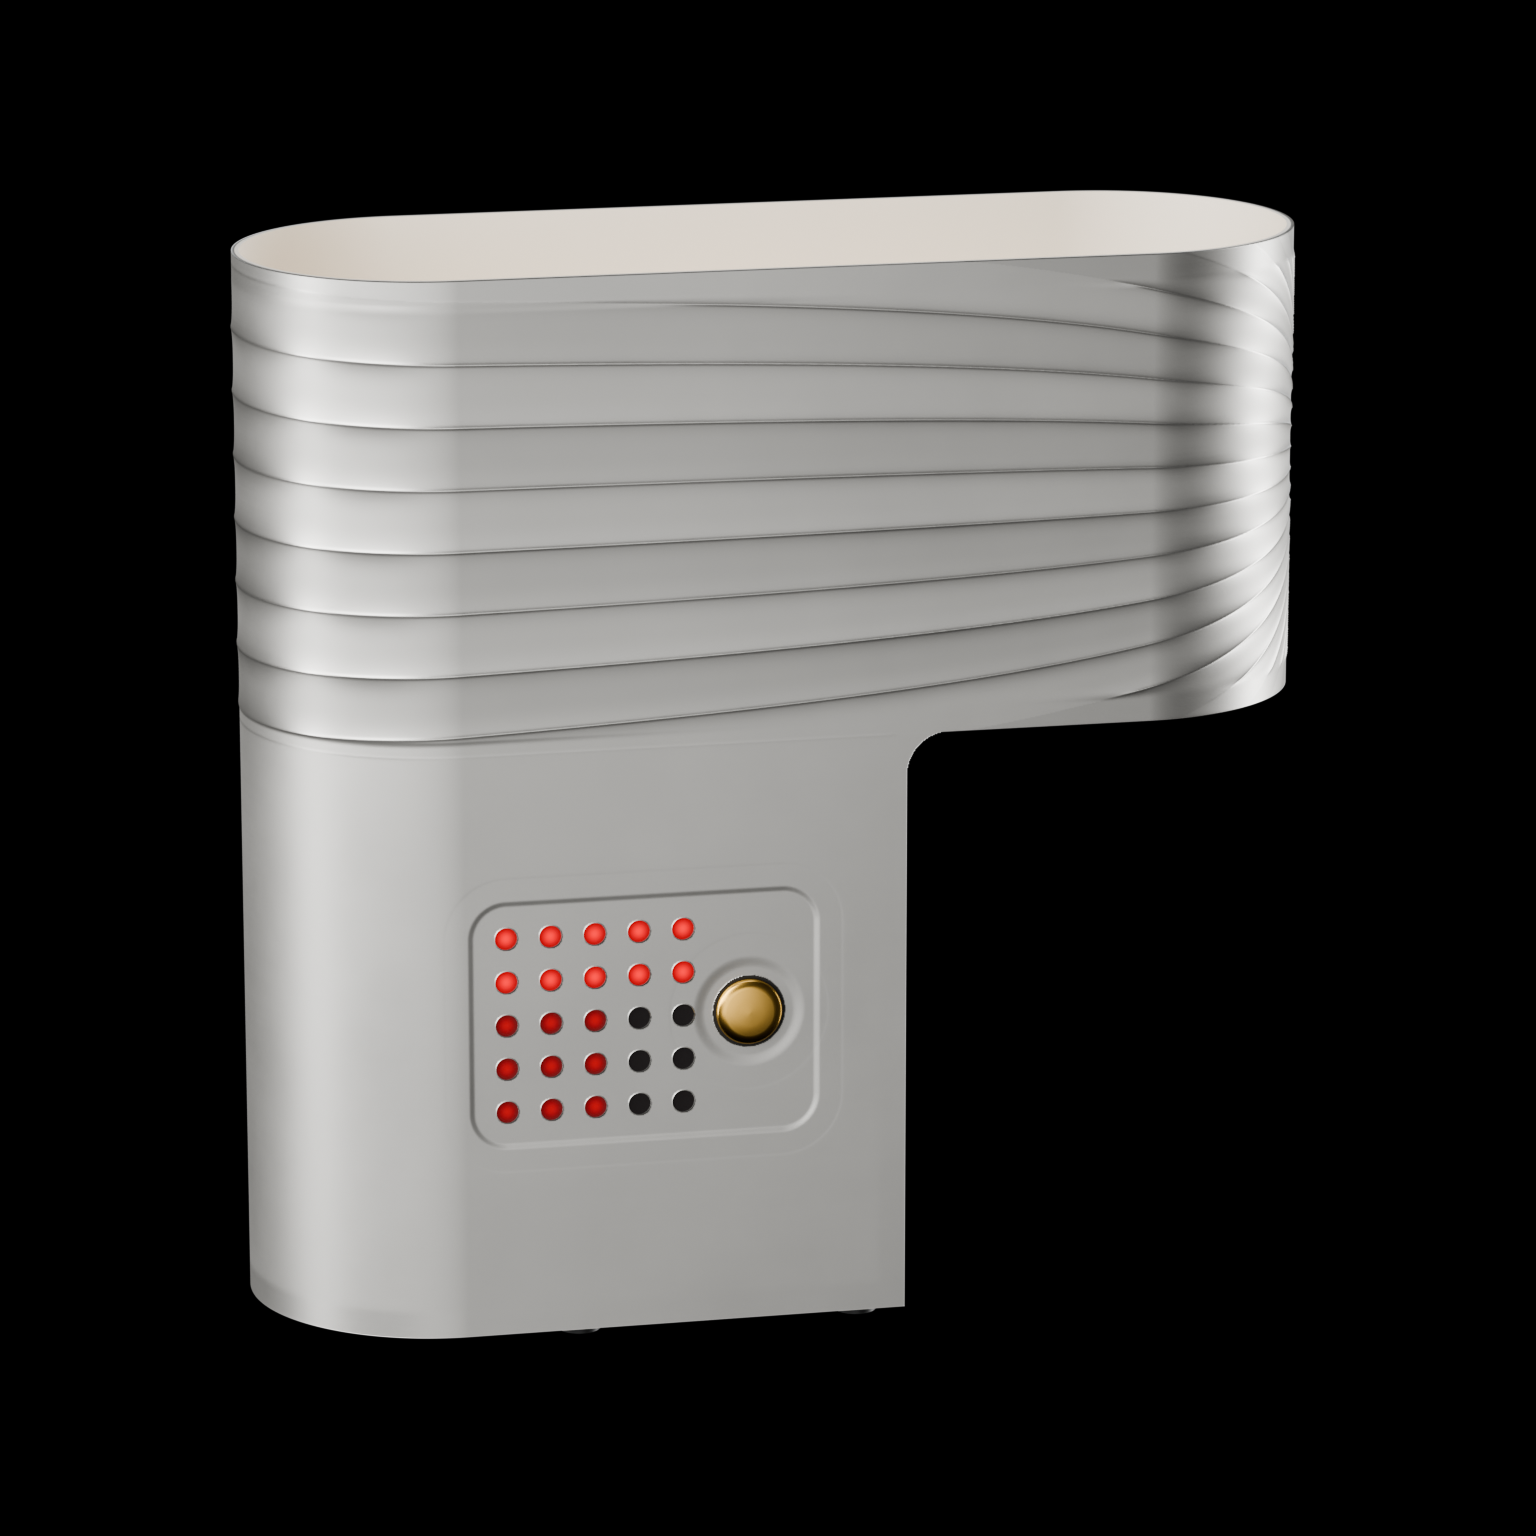
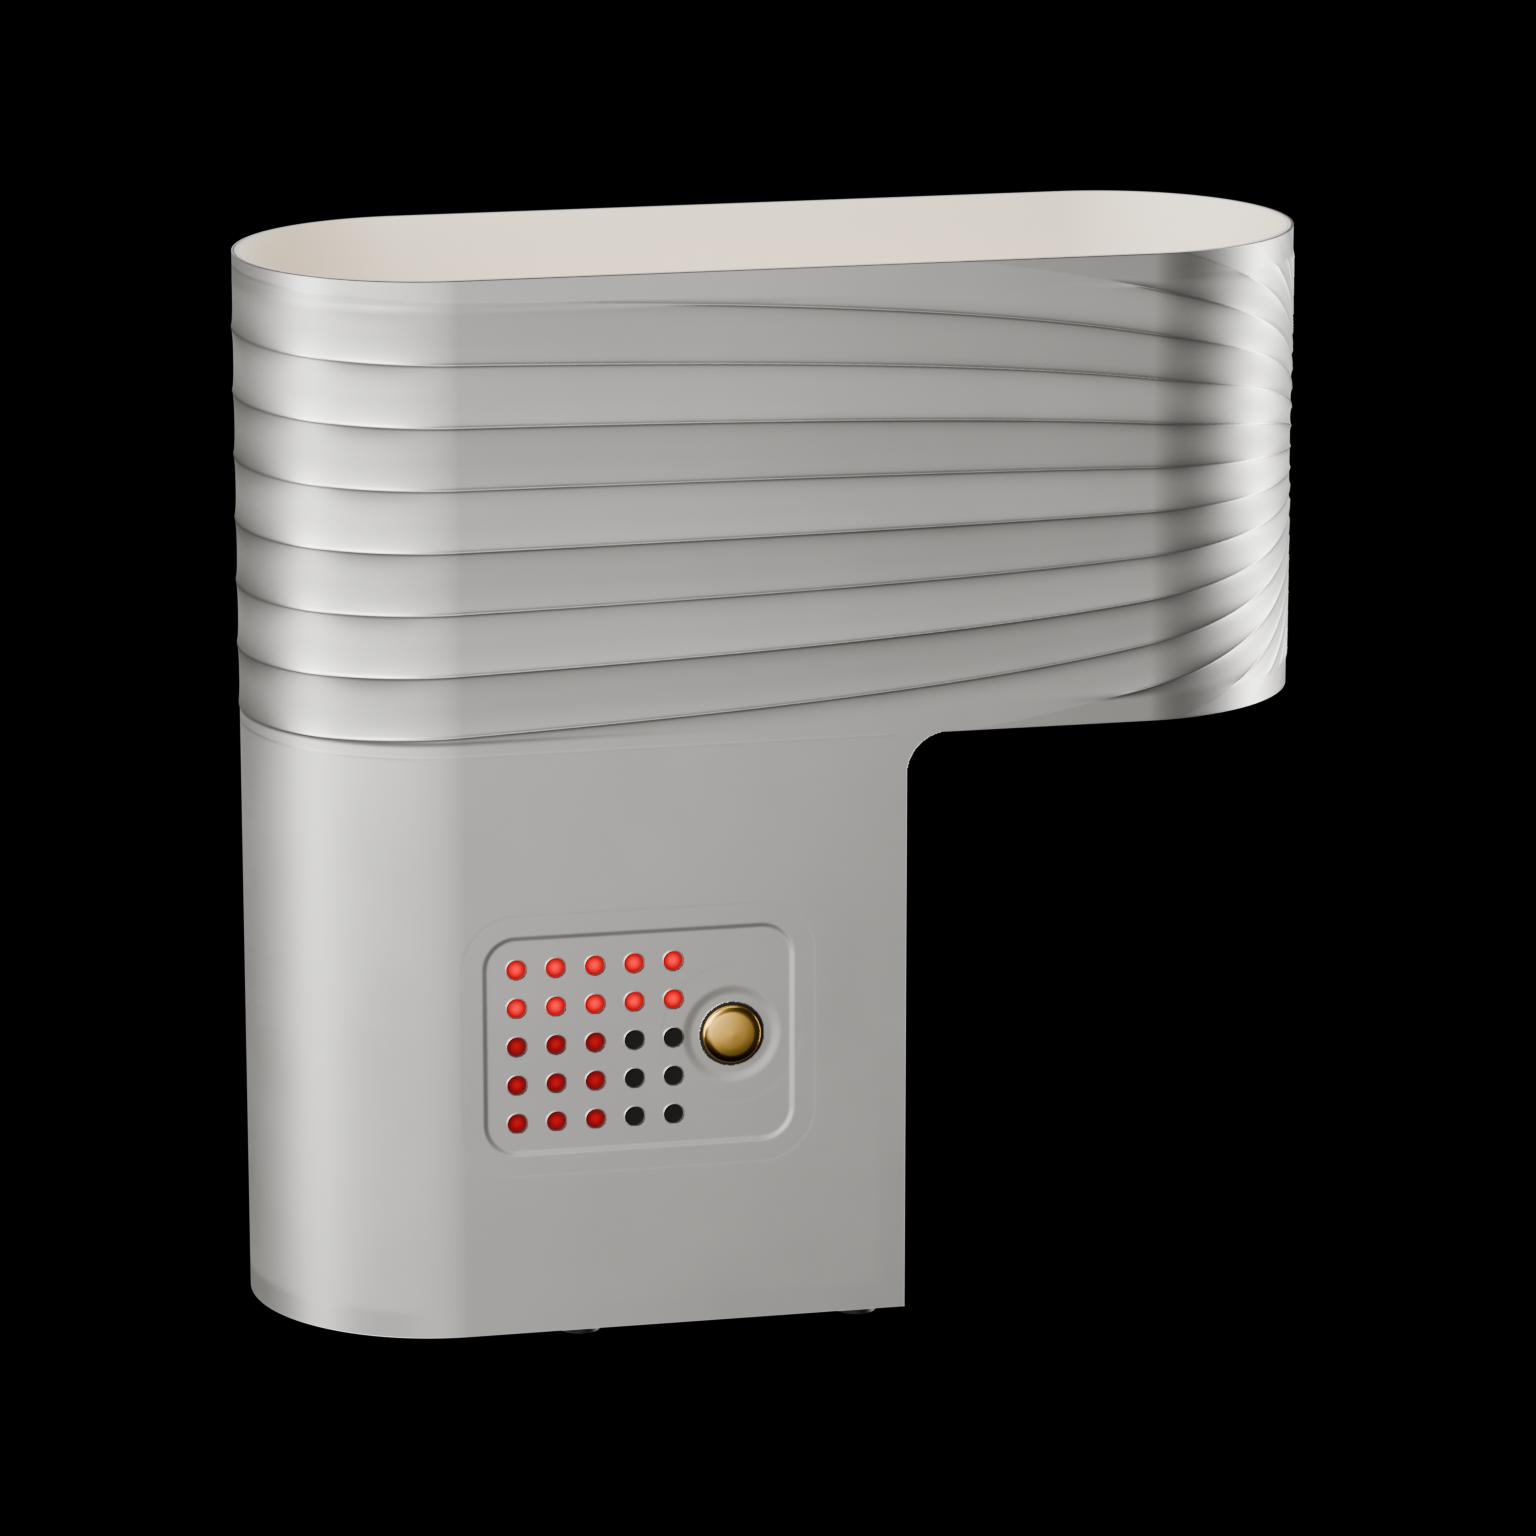
Sveip mini: litt større, 108 x 108 x 37,8 mm (skala 0,36)
Ved 96 mm fylte kortet stamma heilt. Ved 108 mm ligg heile det forsenka
feltet på den flate framveggen, og kortet har 4,35 mm over og under seg i
stamma. Midtre LED står midt på stamma, både i breidda og i høgda.

Passformkontrollen, teikninga, rendringane og notatet er oppdaterte. Teikninga
hentar no avstandane rett frå kontrollen.

Claude-Session: https://claude.ai/code/session_01GF9cEU8fUTeR7k9AzTF4a1

Changed region(s): [[0.2812, 0.5938, 0.5312, 0.75], [0.5, 0.7188, 0.5312, 0.75]]

diff --git a/Leveranse/konsept D - sveip/variantar/mikrobit/plassering.py b/Leveranse/konsept D - sveip/variantar/mikrobit/plassering.py
@@ -13,7 +13,7 @@ import numpy as np
 from matplotlib.patches import Circle, FancyBboxPatch, Polygon, Rectangle
 from shapely.geometry import LineString, box
 
-from mini_passform import AVST, D, K, MB, R, S, T, X_ST, YK, Z_SK
+from mini_passform import AVST, D, K, MB, R, S, T, X_ST, YK, Z_SK, avstand, delar, vegg
 
 HER = Path(__file__).resolve().parent
 R_INN = 12.0 * K
@@ -57,7 +57,7 @@ def tal(x, d=1):
 
 
 # ------------------------------------------------------------------ heile lampa framanfrå
-a = akse([0.035, 0.435, 0.60, 0.50], (-17, 111), (-10, 103))
+a = akse([0.035, 0.435, 0.60, 0.50], (-17, S + 15), (-10, S + 7))
 v = np.radians(np.linspace(180, 90, 16))
 hjorne = np.c_[X_ST + R_INN + R_INN * np.cos(v), Z_SK - R_INN + R_INN * np.sin(v)]
 omriss = np.vstack([[0, 0], [X_ST, 0], hjorne, [S, Z_SK], [S, S], [0, S]])
@@ -76,10 +76,10 @@ for rad in range(5):
         a.add_patch(Circle((MX + (kol - 2) * 4.0, MZ + (2 - rad) * 4.0), 1.0, fc=LED[int(BILETE[rad][kol])], ec="none"))
 a.add_patch(Circle((MX + LOGO, MZ), R_MESSING + 2.2, fill=False, ec=GRAA, lw=0.5))
 a.add_patch(Circle((MX + LOGO, MZ), R_MESSING, fc=MESSING, ec="none"))
-for xa, xb in ((-8, FELT[0] - 1), (FELT[2] + 1, 70)):
+for xa, xb in ((-8, FELT[0] - 1), (FELT[2] + 1, X_ST + 13)):
     a.plot([xa, xb], [MZ, MZ], color=GRAA, lw=0.5, ls=(0, (8, 2, 1.5, 2)))           # snittet B-B
 a.text(-8, MZ + 1.0, "B", color=LYS, fontsize=8, ha="left", va="bottom")
-a.text(70, MZ + 1.0, "B", color=LYS, fontsize=8, ha="right", va="bottom")
+a.text(X_ST + 13, MZ + 1.0, "B", color=LYS, fontsize=8, ha="right", va="bottom")
 a.annotate("", (X_ST + 9, MZ - 6), (KORT[2] + 1.2, MZ - 6), arrowprops=dict(arrowstyle="->", color=GRAA, lw=0.6))
 a.text(X_ST + 10, MZ - 6, "USB", color=LYS, fontsize=6.5, ha="left", va="center")
 maal(a, (0, -6.5), (S, -6.5), tal(S, 0), va="top", forskyv=(0, -0.8))
@@ -94,13 +94,15 @@ for x in (0, S):
 a.plot([X_ST, X_ST], [-3.5, -1], color=GRAA, lw=0.4)
 a.plot([-6, -1], [Z_SK, Z_SK], color=GRAA, lw=0.4); a.plot([-6, -1], [0, 0], color=GRAA, lw=0.4)
 a.plot([S + 1, S + 7], [0, 0], color=GRAA, lw=0.4); a.plot([S + 1, S + 7], [S, S], color=GRAA, lw=0.4)
-peik(a, (FELT[0] + 6, FELT[3]), (4, 76), "forsenka felt 32 × 23\nmed 25 hol Ø 2,0 og messingpunkt Ø 6")
-peik(a, (KORT[0] + 3, KORT[3] - 1.5), (4, 64), "micro:bit V2 bak veggen (stipla)")
+peik(a, (FELT[0] + 6, FELT[3]), (4, Z_SK + 24), "forsenka felt 32 × 23\nmed 25 hol Ø 2,0 og messingpunkt Ø 6")
+peik(a, (KORT[0] + 3, KORT[3] - 1.5), (4, Z_SK + 12), "micro:bit V2 bak veggen (stipla)")
 a.plot([0, 10], [-9.5, -9.5], color=LYS, lw=1.2)
 a.text(11.5, -9.5, "10 mm", color=GRAA, fontsize=6.0, ha="left", va="center")
-a.text(-17, 102.5, "HEILE LAMPA FRAMANFRÅ", color=GRAA, fontsize=6.5, ha="left", va="top")
+a.text(-17, S + 6.5, "HEILE LAMPA FRAMANFRÅ", color=GRAA, fontsize=6.5, ha="left", va="top")
 
 # ------------------------------------------------------------------ tala
+kb = delar["kretskort"].val().BoundingBox()
+til_nasen = tal(avstand(delar["kretskort"], vegg))
 y = 0.885
 for i, (tekst, farge, storleik) in enumerate([
         (f"{tal(S, 0)} × {tal(S, 0)} × {tal(D)} mm", LYS, 13),
@@ -112,17 +114,17 @@ for i, (tekst, farge, storleik) in enumerate([
         ("touch-logoen bak messingpunktet", GRAA, 7.5),
         ("", GRAA, 5),
         ("Kontrollert i CAD (mm)", LYS, 8.5),
-        ("kortet til krumminga i nasen   2,3", GRAA, 7.5),
-        ("knapp A og B til veggen   0,55", GRAA, 7.5),
-        ("lysrista til veggen   0,3", GRAA, 7.5),
-        ("kortet til enden av stamma   6,5", GRAA, 7.5),
-        ("kortet over skjermsaumen   1,0", GRAA, 7.5),
-        ("fri djupn bak kortet   19", GRAA, 7.5)]):
+        (f"kortet til krumminga i nasen   {til_nasen}", GRAA, 7.5),
+        (f"knapp A og B til veggen   {tal(avstand(delar['knapp A'], vegg), 2)}", GRAA, 7.5),
+        (f"lysrista til veggen   {tal(avstand(delar['lysrist D15'], vegg))}", GRAA, 7.5),
+        (f"kortet til enden av stamma   {tal(X_ST - kb.xmax)}", GRAA, 7.5),
+        (f"over og under kortet i stamma   {tal(kb.zmin, 2)}", GRAA, 7.5),
+        (f"fri djupn bak kortet   {tal(D / 2 - T - (YK + 1.6 + 5.5), 0)}", GRAA, 7.5)]):
     fig.text(0.665, y, tekst, color=farge, fontsize=storleik, ha="left", va="top")
     y -= 0.012 + storleik * 0.0026
 
 # ------------------------------------------------------------------ snitt B-B, sett ovanfrå
-s = akse([0.035, 0.03, 0.93, 0.375], (-8, 104), (-24.5, 20.5))
+s = akse([0.035, 0.03, 0.93, 0.375], (-8, S + 8), (-R - 7.7, R + 3.7))
 ytre = LineString([(R, 0), (S - R, 0)]).buffer(R, resolution=64)
 indre = LineString([(R, 0), (S - R, 0)]).buffer(R - T, resolution=64)
 vegg = ytre.difference(indre).intersection(box(-1, -R - 1, X_ST, R + 1))
@@ -150,23 +152,24 @@ s.add_patch(Rectangle((xm - 3.0, YV - 0.5), 6.0, 0.5, fc=MESSING, ec="none", zor
 s.add_patch(Rectangle((xm - 0.5, YV + T + 2.6), 1.0, YK - (YV + T + 2.6), fc=MESSING, ec="none", zorder=4))  # fjørpinnen
 s.add_patch(Rectangle((14.0, YK + 6.0), 25.0, 14.0, fill=False, ec=GRAA, lw=0.6, ls=STIPLA))      # 2 x AAA
 s.text(26.5, YK + 13.0, "2 × AAA\n(framlegg)", color=GRAA, fontsize=6.0, ha="center", va="center")
-maal(s, (53.0, YI), (53.0, YK), tal(AVST), forskyv=(-0.8, 0), ha="right", va="center")
+maal(s, (X_ST - 4.0, YI), (X_ST - 4.0, YK), tal(AVST), forskyv=(-0.8, 0), ha="right", va="center")
 maal(s, (S + 4, -R), (S + 4, R), tal(D), forskyv=(-1.0, 0), ha="right", va="center")
-maal(s, (0, -19.8), (KORT[0], -19.8), tal(KORT[0]), forskyv=(0, 0.3))
-maal(s, (KORT[2], -19.8), (X_ST, -19.8), tal(X_ST - KORT[2]), forskyv=(0, 0.3))
+YM, YT = -R - 3.0, -R - 6.4                 # høgda på mållinene og på tekstrada under snittet
+maal(s, (0, YM), (KORT[0], YM), tal(KORT[0]), forskyv=(0, 0.3))
+maal(s, (KORT[2], YM), (X_ST, YM), tal(X_ST - KORT[2]), forskyv=(0, 0.3))
 for x in (0, KORT[0], KORT[2], X_ST):
-    s.plot([x, x], [-20.5, -R - 0.6 if x in (0, X_ST) else YK - 0.3], color=GRAA, lw=0.4)
-peik(s, (MX - 15, YK - 2.9), (-7, -23.2), "lysrist D15, 3,0 ved ringane")
-peik(s, (MX + 2, YV + 0.5), (MX + 1, -23.2), "klar, matta propp", ha="right")
-peik(s, (xm, YV - 0.5), (xm + 4, -23.2), "messingpunkt Ø 6 i isolerande hylse, fjørpinne mot logoen")
-peik(s, (KORT[0] + 0.8, YK + 0.9), (10.5, 13.0), "kretskort, 2,3 frå krumminga i nasen")
-peik(s, (MX + 20.5, YK + 2.8), (62, 3.0), "micro-USB ut gjennom endeplata")
-peik(s, (MX + 3, YK + 3.2), (62, 8.5), "høgtalar 3,0 (JST 5,5 over snittet)")
-s.text(62, 14.5, "skjermen over snittet (stipla)", color=GRAA, fontsize=6.5, ha="left", va="center")
-s.text(-8, 20.3, "SNITT B–B, SETT OVANFRÅ (FORSTØRRA)", color=GRAA, fontsize=6.5, ha="left", va="top")
-s.text(103.5, -23.2, "framsida", color=GRAA, fontsize=6.0, ha="right", va="center")
+    s.plot([x, x], [YM - 0.7, -R - 0.6 if x in (0, X_ST) else YK - 0.3], color=GRAA, lw=0.4)
+peik(s, (MX - 15, YK - 2.9), (-7, YT), "lysrist D15, 3,0 ved ringane")
+peik(s, (MX + 2, YV + 0.5), (MX + 1, YT), "klar, matta propp", ha="right")
+peik(s, (xm, YV - 0.5), (xm + 4, YT), "messingpunkt Ø 6 i isolerande hylse, fjørpinne mot logoen")
+peik(s, (KORT[0] + 0.8, YK + 0.9), (KORT[0] + 1.5, R - 3.8), f"kretskort, {til_nasen} frå krumminga i nasen")
+peik(s, (MX + 20.5, YK + 2.8), (X_ST + 5, R - 14.5), "micro-USB ut gjennom endeplata")
+peik(s, (MX + 3, YK + 3.2), (X_ST + 5, R - 9.0), "høgtalar 3,0 (JST 5,5 over snittet)")
+s.text(X_ST + 5, R - 3.5, "skjermen over snittet (stipla)", color=GRAA, fontsize=6.5, ha="left", va="center")
+s.text(-8, R + 3.5, "SNITT B–B, SETT OVANFRÅ (FORSTØRRA)", color=GRAA, fontsize=6.5, ha="left", va="top")
+s.text(S + 7.5, YT, "framsida", color=GRAA, fontsize=6.0, ha="right", va="center")
 
-fig.text(0.035, 0.968, "Sveip mini · micro:bit V2 fyller stamma", color=LYS, fontsize=11, ha="left", va="center")
+fig.text(0.035, 0.968, "Sveip mini · bygd rundt ein micro:bit V2", color=LYS, fontsize=11, ha="left", va="center")
 fig.text(0.965, 0.968, "mål i mm", color=GRAA, fontsize=6.5, ha="right", va="center")
 fig.savefig(HER / "plassering.png", facecolor="black")
 print("SKREIV", HER / "plassering.png")

diff --git a/Leveranse/konsept D - sveip/variantar/mikrobit/mini_passform.py b/Leveranse/konsept D - sveip/variantar/mikrobit/mini_passform.py
@@ -1,10 +1,10 @@
 # -*- coding: utf-8 -*-
 """mini_passform.py: kontrollerer at micro:bit V2 får plass i stamma på Sveip mini.
 
-Mini er rev. B i skala K = 0,32 (96 x 96 x 33,6 mm), med 1,0 mm plate. Kortet står rotert 90°
+Mini er rev. B i skala K = 0,36 (108 x 108 x 37,8 mm), med 1,0 mm plate. Kortet står rotert 90°
 med klokka bak framveggen på stamma: overkanten med USB peikar mot den opne enden av stamma,
-kantkontakten mot nasen. Skriptet byggjer veggen og delane på kortet som lekamar og måler den
-minste avstanden mellom dei.
+kantkontakten mot nasen. Midtre LED står midt på stamma, både i breidda og i høgda. Skriptet
+byggjer veggen og delane på kortet som lekamar og måler den minste avstanden mellom dei.
   python mini_passform.py
 """
 import math
@@ -14,12 +14,12 @@ from OCP.BRepExtrema import BRepExtrema_DistShapeShape
 
 from d15_lysrist import lysrist
 
-K = 0.32
-S, D, R = 300 * K, 105 * K, 52.5 * K          # 96 x 33,6, naseradius 16,8
-X_ST, Z_SK = 178 * K, 167.5 * K               # stamma: 56,96 brei, 53,6 høg
+K = 0.36
+S, D, R = 300 * K, 105 * K, 52.5 * K          # 108 x 37,8, naseradius 18,9
+X_ST, Z_SK = 178 * K, 167.5 * K               # stamma: 64,1 brei, 60,3 høg
 T = 1.0                                       # plata (ikkje skalert)
-BOTN = 3.0                                    # golv og luft under kortet
-MB = (28.5, BOTN + 25.8)                      # midtre LED: midt på stamma, kortet står på golvet
+MB = (X_ST / 2, Z_SK / 2)                     # midtre LED: midt på stamma (32,04; 30,15)
+BOTN = 3.0                                    # minste høgd under kortet (golv og luft)
 AVST = 5.1                                    # frå innsida av framveggen til framsida av kretskortet
 YK = -D / 2 + T + AVST                        # framsida av kretskortet (y)
 
@@ -72,7 +72,7 @@ if __name__ == "__main__":
         print(f"  {namn:11s} x {bb.xmin:5.1f}..{bb.xmax:5.1f}  z {bb.zmin:5.1f}..{bb.zmax:5.1f}  til veggen {a:5.2f} mm")
     kort = delar["kretskort"].val().BoundingBox()
     print(f"  kretskortet: {kort.xmin:.2f} frå nasespissen, {X_ST - kort.xmax:.2f} til enden av stamma, "
-          f"{kort.zmin:.2f} over underkanten, {kort.zmax - Z_SK:+.2f} mot skjermsaumen")
+          f"{kort.zmin:.2f} over underkanten, {Z_SK - kort.zmax:.2f} under skjermsaumen")
     usb = delar["USB"].val().BoundingBox()
     print(f"  USB-kontakten sluttar {X_ST - usb.xmax:.2f} mm innanfor enden av stamma")
     bak = D / 2 - T - (YK + 1.6 + 5.5)

diff --git a/Leveranse/konsept D - sveip/variantar/overflate/v12_mini.py b/Leveranse/konsept D - sveip/variantar/overflate/v12_mini.py
@@ -1,19 +1,20 @@
 # -*- coding: utf-8 -*-
-"""V12 Mini: Sveip i 32 % storleik, så ein micro:bit V2 så vidt får plass i stamma.
+"""V12 Mini: Sveip i 36 % storleik, bygd rundt ein micro:bit V2 i stamma.
 
-Lampa er 96 x 96 x 33,6 mm. Kortet står rotert 90° bak framveggen: det er 51,6 mm høgt i ei
-stamme som er 53,6 mm høg, og USB-en peikar ut mot den opne enden av stamma. Matrisa på 5 x 5
-står midt på stamma og er det største elementet på framsida. Til høgre for henne, der kortet
-har touch-logoen sin, står eit messingpunkt (Ø 6). Dei to deler eitt forsenka felt på
-32 x 23 mm, på same line som i rev. B. Hakket for pluggen i nasen er borte. Skjermen har
-banane frå V10 Baug. Stamma er glatt, så feltet er det einaste på henne.
+Lampa er 108 x 108 x 37,8 mm. Kortet står rotert 90° bak framveggen: det er 51,6 mm høgt i ei
+stamme som er 60,3 mm høg, med 4,35 mm over og under, og USB-en peikar ut mot den opne enden
+av stamma. Matrisa på 5 x 5 står midt på stamma, både i breidda og i høgda, og er det største
+elementet på framsida. Til høgre for henne, der kortet har touch-logoen sin, står eit
+messingpunkt (Ø 6). Dei to deler eitt forsenka felt på 32 x 23 mm, på same line som i rev. B,
+og heile feltet ligg på den flate framveggen. Hakket for pluggen i nasen er borte. Skjermen
+har banane frå V10 Baug. Stamma er glatt, så feltet er det einaste på henne.
 """
 import numpy as np
 
 import sveip_hud as H
 
-K = 0.32                      # 96 / 300
-MB = (28.5, 28.8)             # midtre LED på mini-lampa (mm): midt på stamma, 28,8 over underkanten
+K = 0.36                      # 108 / 300
+MB = (89.0 * K, 83.75 * K)    # midtre LED på mini-lampa (mm): midt på stamma, (32,04; 30,15)
 LOGO = 14.0                   # touch-logoen ligg 14,0 mm frå midtre LED
 H.oppsett(skala=K, mikrobit=MB, knapp=(MB[0] + LOGO, MB[1], 3.0), knapp_bak=False, hakk=False,
           utan=("E01",), felt_ut=(9.0, 0.0))

diff --git a/Leveranse/konsept D - sveip/variantar/mikrobit/LES_MEG.md b/Leveranse/konsept D - sveip/variantar/mikrobit/LES_MEG.md
@@ -1,16 +1,16 @@
-# Sveip mini · lampa som så vidt rommar ein micro:bit V2
+# Sveip mini · lampa bygd rundt ein micro:bit V2
 
-Sveip mini er rev. B i skala 0,32: **96 × 96 × 33,6 mm**. Stamma er 57,0 mm brei og 53,6 mm høg, og kortet (51,6 × 42,0 mm) står rotert 90° bak framveggen og fyller henne. Det einaste som syner av kortet, er LED-matrisa på 5 × 5 gjennom 25 hol. Til høgre for matrisa står eit messingpunkt, der kortet har touch-logoen sin. Dei to deler eitt forsenka felt på 32 × 23 mm.
+Sveip mini er rev. B i skala 0,36: **108 × 108 × 37,8 mm**. Stamma er 64,1 mm brei og 60,3 mm høg, og kortet (51,6 × 42,0 mm) står rotert 90° bak framveggen, midt i stamma. Det einaste som syner av kortet, er LED-matrisa på 5 × 5 gjennom 25 hol. Til høgre for matrisa står eit messingpunkt, der kortet har touch-logoen sin. Dei to deler eitt forsenka felt på 32 × 23 mm.
 
 Varianten er V12 i `../overflate` (`v12_mini.py`). Rev. B er ikkje endra, og dei store variantane V9 til V11 har ikkje micro:bit.
 
-## Kvifor 0,32 og rotert
+## Kvifor 0,36 og rotert
 
+- Rotert 90° med klokka er kortet 42 mm breitt og 51,6 mm høgt. Den minste lampa som rommar det slik, er 96 mm (skala 0,32): då er kortet 51,6 mm i ei stamme på 53,6 mm.
+- Mini er gjort litt større, 108 mm. Då ligg heile feltet på den flate framveggen, og kortet har 4,35 mm over og under seg i stamma.
 - Ståande kort krev skala 0,41 til 0,44 (122 til 130 mm): kortet er breiare enn den flate framveggen, og knapp A og lysrista treff krumminga i nasen.
-- Rotert 90° med klokka er kortet 42 mm breitt og 51,6 mm høgt. Då styrer høgda: kortet er 51,6 mm i ei stamme på 53,6 mm.
 - USB-en peikar ut mot den opne enden av stamma, så kortet kan programmerast utan å opne lampa.
 - Logoen hamnar til høgre for matrisa, på same line som messingknappen i rev. B.
-- Det går an å gå ned til 0,30 (90 mm). Då stikk kortet 4 mm opp bak skjermsaumen. Ved 0,28 treff foten på lysrista krumminga i nasen.
 
 ## Kva matrisa viser
 
@@ -34,13 +34,12 @@ Knapp A og B stikk 4,55 mm fram frå kortet, så LED-ane står om lag 5 mm bak p
 
 | Mål | mm |
 |---|---|
-| Kretskortet til krumminga i nasen | 2,3 |
+| Kretskortet til krumminga i nasen | 3,4 |
 | Knapp A og B til veggen | 0,55 |
 | Lysrista til veggen | 0,3 |
-| Kretskortet til enden av stamma | 6,5 |
-| Kretskortet over underkanten | 3,0 |
-| Kretskortet over skjermsaumen (bak veggen) | 1,0 |
-| Fri djupn bak kortet | 19 |
+| Kretskortet til enden av stamma | 10,0 |
+| Over og under kretskortet i stamma | 4,35 |
+| Fri djupn bak kortet | 24 |
 
 Måla på kortet er frå den offisielle monteringsteikninga for V2 (Avnet, DWG 1.48, rev. 1, på tech.microbit.org).
 
@@ -68,10 +67,10 @@ Logikken er køyrd mot ein stubb av `microbit`-modulen i åtte tilfelle. Ho er i
 
 ## Står att
 
-1. **Storleiken.** Ei lampe på 96 mm gjev ikkje arbeidslys på eit skrivebord. Utkraginga er 39 mm, og kroppen kan kvitte seg med om lag 2 W. Mini er ei stemningslampe eller ein modell, ikkje ei erstatning for rev. B.
+1. **Storleiken.** Ei lampe på 108 mm gjev ikkje arbeidslys på eit skrivebord. Utkraginga er 44 mm, og kroppen kan kvitte seg med om lag 2 W. Mini er ei stemningslampe eller ein modell, ikkje ei erstatning for rev. B.
 2. **Berøringa.** Fjørpinne frå messing til logoen gjennom ein jorda aluminiumsvegg er ikkje prøvd. Etter kjeldekoden kalibrerer kortet éin gong ved oppstart. Messingen treng seriemotstand og vern mot statisk utlading.
 3. **Lyset.** Lyskjeldene, drivaren og kjølinga er ikkje teikna. Flimmer må målast: kortaste PWM-periode er 256 µs (3,9 kHz).
-4. **Innmaten.** Chassis, endeplate med opning for USB, batterihaldar og ballast i foten er ikkje teikna. Botnflensane frå rev. B må teiknast om, for skalerte står dei i vegen for underkanten av kortet. Lampa veg truleg under 150 g og treng ballast.
+4. **Innmaten.** Chassis, endeplate med opning for USB, batterihaldar og ballast i foten er ikkje teikna. Lampa veg truleg under 150 g og treng ballast.
 5. **Toleransen** på LED-plasseringa er ikkje oppgjeven. Bor eit prøvestykke først.
 
 ## Filer
